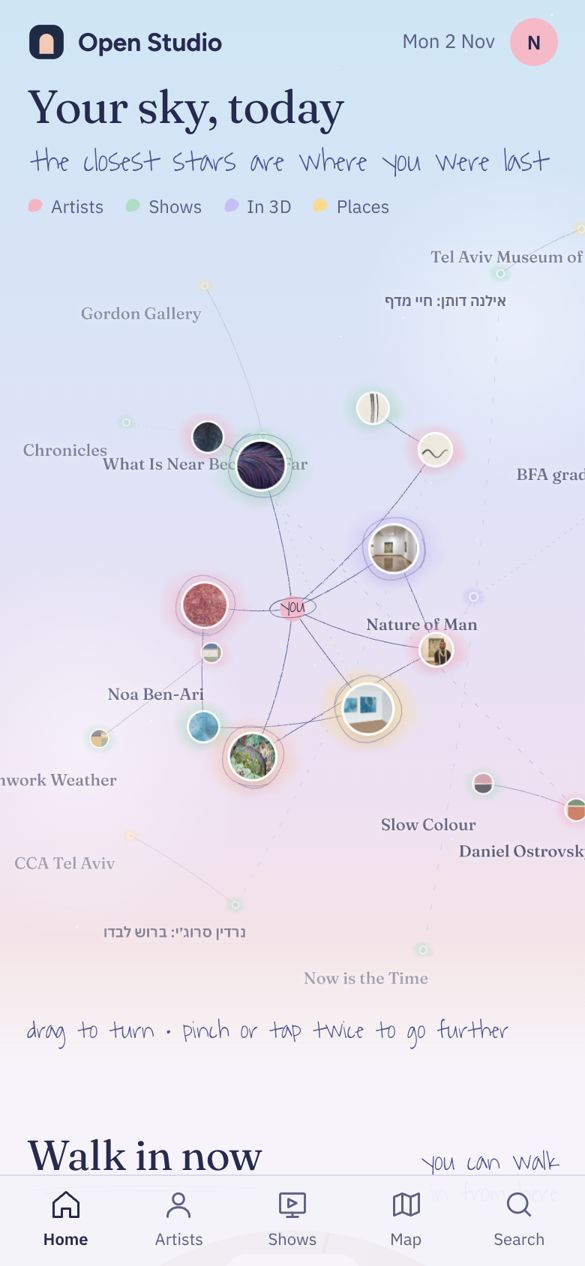
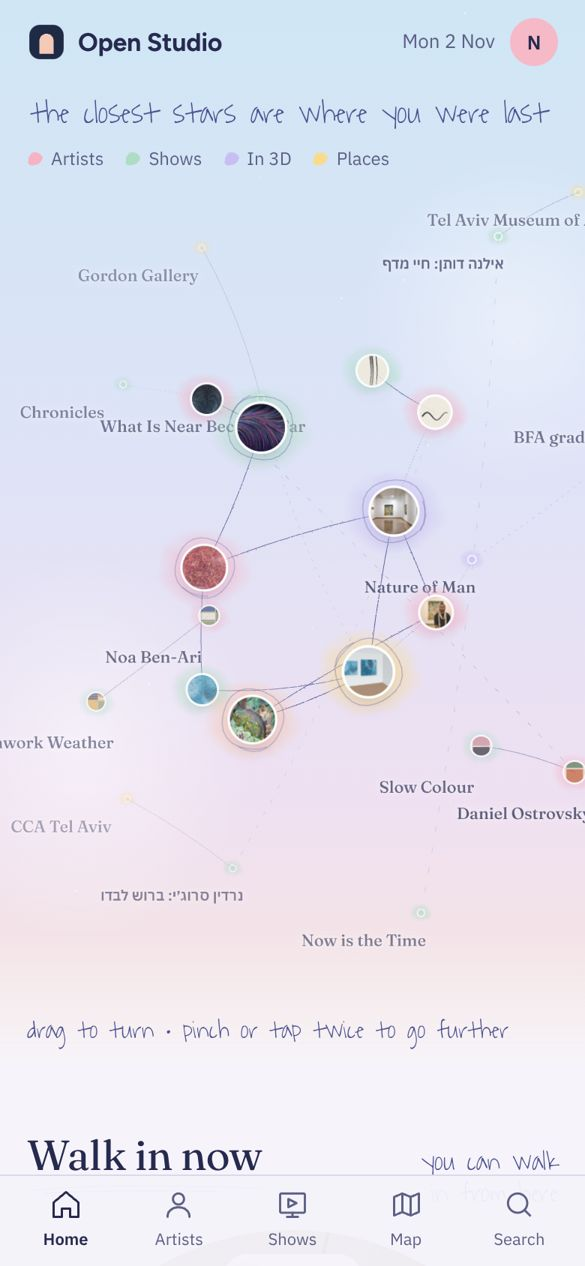
Open Studio lab: Daylight, by hand, without the title and the 'you'
Claude-Session: https://claude.ai/code/session_017GsJvpJhWTJ6Xso11HKtdL

diff --git a/open-studio-lab/home/day.js b/open-studio-lab/home/day.js
@@ -1,6 +1,6 @@
 // Daylight sky, by hand: the page and the sky's marks, shared by the chosen direction and its variations.
 import { home } from './home.js';
-import { placeAll } from './data.js';
+import { placeAll, STARS, TIES } from './data.js';
 import { rnd } from './sky.js';
 
 const NS = 'http://www.w3.org/2000/svg';
@@ -42,15 +42,20 @@ const sketchArch = tour => {
   wrap.insertAdjacentHTML('beforeend', `<svg class="sketch-arch" viewBox="-9 -9 ${w + 16} ${h + 15}" aria-hidden="true"><path d="${path(-8, -9, 9)}"/><path d="${path(4, -3, 3)}" opacity=".5"/></svg>`);
 };
 
+// without a "you" in the middle: what you used last is drawn as the trail you took, in order
+const TRAIL = [['signal', 'lia', 'used'], ['lia', 'ritual', 'used'], ['ritual', 'harbour', 'used'], ['harbour', 'together', 'used'], ['maya', 'ritual', 'maybe'], ['elad', 'harbour', 'maybe']];
+const SKY_STARS = STARS.filter(s => s.kind !== 'you'), SKY_TIES = [...TRAIL, ...TIES.filter(t => !t.includes('you'))];
+
 export function day(v = {}) {
   hourSky(v.skies);
   home({
     tourShape: v.tourShape || 'arch', wander: false,
-    copy: { title: 'Your sky, today', hand: 'the closest stars are where you were last', hint: 'drag to turn · pinch or tap twice to go further', live: 'Walk in now', end: 'that’s your sky for today', ...v.copy },
+    copy: { title: '', hand: 'the closest stars are where you were last', hint: 'drag to turn · pinch or tap twice to go further', live: 'Walk in now', end: 'that’s your sky for today', ...v.copy },
     legend: v.legend === false ? null : [['artist', 'Artists'], ['show', 'Shows'], ['tour', 'In 3D'], ['place', 'Places']],
     sky: {
-      cam: { D: 560, pitch: 0 }, F: 560, cy: 0.57, limits: { yaw: 0.8, pitch: 0.45, Dmin: 300, Dmax: 1500 }, intro: 1.9, zoomEase: .05, farZoom: 1.9,
+      cam: { D: 560, pitch: 0 }, F: 560, cy: 0.535, limits: { yaw: 0.8, pitch: 0.45, Dmin: 300, Dmax: 1500 }, intro: 1.9, zoomEase: .05, farZoom: 1.9,
       farFrom: 560, fogStart: 60, fogRange: 1500, minOp: .1, labelAt: 0.7, bigAt: 0.86, maxScale: 1.3, bow: 0.1, ink: .8, pickLift: 90,
+      stars: v.you ? STARS : SKY_STARS, ties: v.you ? TIES : SKY_TIES,
       layout: placeAll, node: v.node || node,
       extra(g, project, cam, t, size) { dust(g, project); if (v.extra) v.extra(g, project, cam, t, size); },
       ...v.sky,

diff --git a/open-studio-lab/home/home.js b/open-studio-lab/home/home.js
@@ -13,7 +13,7 @@ export function home(d) {
   app.innerHTML = `
     <header class="top"><a class="brand" href="./">${LOGO}<span>Open Studio</span></a><span class="day">Mon 2 Nov</span><span class="me" aria-label="Your account">N</span></header>
     <section class="hero" aria-label="Your art world">
-      <div class="hello"><h1>${c.title}</h1>${c.hand ? `<p class="hand">${c.hand}</p>` : ''}
+      <div class="hello">${c.title ? `<h1>${c.title}</h1>` : `<h1 class="vh">Your art world</h1>`}${c.hand ? `<p class="hand">${c.hand}</p>` : ''}
         ${d.legend ? `<ul class="legend" aria-label="What the marks mean">${d.legend.map(([k, t]) => `<li><i class="lg lg-${k}"></i>${t}</li>`).join('')}</ul>` : ''}</div>
       <div id="sky" class="skybox"></div>
       <div class="sky-ui"><span class="hint">${c.hint || 'Drag to turn · pinch to see further'}</span>
@@ -56,12 +56,13 @@ export function home(d) {
   const S = sky(app.querySelector('#sky'), {
     stars: STARS, ties: TIES, ...d.sky,
     onChoose(s) {
+      app.querySelector('.hero').classList.toggle('picking', !!s);
       if (!s) { pick.hidden = true; return; }
       const go = s.kind === 'tour' && s.id === 'ritual' ? `<button type="button" class="go" data-walk>Walk in</button>`
         : s.place ? `<a class="go" href="${APP}?guest#/map/place/${s.place}">On the map</a>` : '';
       pick.innerHTML = `${s.img ? `<img src="${s.img}" alt="">` : `<i class="dot k-${s.kind}"></i>`}<div><span class="k">${KIND[s.kind]}${s.ago ? ` · ${esc(s.ago)}` : ''}</span><b${he(s.name)}>${esc(s.name)}</b><span>${esc(s.sub)}</span>${s.note ? `<span class="hand">${esc(s.note)}</span>` : ''}</div>${go}<button type="button" class="x" aria-label="Close">×</button>`;
       pick.hidden = false;
-      pick.querySelector('.x').onclick = () => { pick.hidden = true; S.clear(); };
+      pick.querySelector('.x').onclick = () => { pick.hidden = true; S.clear(); app.querySelector('.hero').classList.remove('picking'); };
       const w = pick.querySelector('[data-walk]'); if (w) w.onclick = () => enter();
     },
   });

diff --git a/open-studio-lab/home/base.css b/open-studio-lab/home/base.css
@@ -8,6 +8,7 @@ a{color:inherit}
 button{font:inherit;color:inherit}
 :focus-visible{outline:2px solid var(--ink);outline-offset:3px;border-radius:6px}
 #app{max-width:520px;margin:0 auto;overflow-x:clip;padding-bottom:calc(84px + env(safe-area-inset-bottom));position:relative}
+.vh{position:absolute!important;width:1px;height:1px;overflow:hidden;clip:rect(0 0 0 0);white-space:nowrap}
 .hand{font-family:var(--hand);color:var(--hand-ink);font-size:var(--hand-size,20px);line-height:1.15;font-weight:var(--hand-weight,500)}
 
 /* header floats over the sky */
@@ -43,6 +44,8 @@ button{font:inherit;color:inherit}
 .star.dim .lab{opacity:0}
 .skybox.full{position:fixed;inset:0;z-index:60;background:var(--sky)}
 .hero.wandering .hello{opacity:0}
+.hello{transition:opacity .4s ease}
+.hero.picking .hello{opacity:0}
 .sky-ui{position:absolute;z-index:14;left:18px;right:14px;bottom:16px;display:flex;align-items:center;gap:10px}
 .hero.wandering .sky-ui{position:fixed;z-index:62;bottom:calc(18px + env(safe-area-inset-bottom));max-width:488px;margin:0 auto}
 .hint{font-size:13px;color:var(--muted)}

diff --git a/open-studio-lab/home/day-watercolour.html b/open-studio-lab/home/day-watercolour.html
@@ -50,7 +50,7 @@ import { day } from './day.js';
 document.body.insertAdjacentHTML('afterbegin', `<svg width="0" height="0" style="position:absolute" aria-hidden="true"><filter id="bloom" x="-20%" y="-20%" width="140%" height="140%"><feTurbulence type="fractalNoise" baseFrequency="0.012" numOctaves="3" seed="21" result="n"/><feDisplacementMap in="SourceGraphic" in2="n" scale="70"/><feGaussianBlur stdDeviation="2"/></filter></svg>`);
 const BLOOMS = [[-6, 2, 70, 34, '#F9C7B4'], [52, -2, 62, 30, '#C9DDF5'], [8, 34, 58, 30, '#F5B8CB'], [56, 40, 56, 32, '#D2C6F4'], [-4, 66, 64, 30, '#BFE5D0'], [48, 72, 60, 30, '#F8DE95'], [20, 88, 70, 24, '#F5C3D1']];
 day({
-  copy: { title: 'Your sky, today', hand: 'painted from where you were last' },
+  copy: { title: '', hand: 'painted from where you were last' },
   sketchArch: true,
   after(app) {
     const paint = document.createElement('div'); paint.className = 'paint'; paint.setAttribute('aria-hidden', 'true');

diff --git a/open-studio-lab/home/day-graphite.html b/open-studio-lab/home/day-graphite.html
@@ -45,7 +45,7 @@ const heb = s => /[֐-׿]/.test(s) ? ' dir="rtl"' : '';
 const arrow = '<svg viewBox="0 0 18 16" aria-hidden="true"><path d="M15 14C11 12 7 9 4 3M4 3l-1 5M4 3l5 1"/></svg>';
 const seed = s => s.id.length * 7 + s.id.charCodeAt(0);
 day({
-  copy: { title: 'Your sky, today', hand: 'drawn from where you were last' },
+  copy: { title: '', hand: 'drawn from where you were last' },
   node: s => s.kind === 'you' ? you
     : `<span class="hatch"></span><span class="st"${s.img ? ` style="background-image:url(${s.img})"` : ''}></span>${s.ring === 0 ? ring(seed(s)) : ''}<span class="kd"></span><span class="lab"><b${heb(s.name)}>${s.name}</b>${s.sub ? `<small>${s.sub}</small>` : ''}${s.note ? `<span class="hand">${arrow}${s.note}</span>` : ''}</span>`,
   sky: { ink: 1.35 },

diff --git a/open-studio-lab/home/day-paper.html b/open-studio-lab/home/day-paper.html
@@ -59,7 +59,7 @@ const HILLS = `<svg class="hills" viewBox="0 0 390 150" preserveAspectRatio="non
   <path d="M0 122C70 108 120 126 190 116S300 100 390 114V150H0Z" fill="#F6F4FA"/></svg>`;
 const CLOUD = (x, y, w) => `<svg class="cloud" style="left:${x}%;top:${y}%;width:${w}px" viewBox="0 0 120 50" aria-hidden="true"><path d="M8 40C2 30 14 20 26 24 28 10 48 6 58 16 66 4 92 6 94 22 110 18 120 34 108 42Z"/></svg>`;
 day({
-  copy: { title: 'Your sky, today', hand: 'cut out from where you were last' },
+  copy: { title: '', hand: 'cut out from where you were last' },
   sketchArch: false,
   node: s => s.kind === 'you' ? you : `${cut(seed(s))}<span class="st"${s.img ? ` style="background-image:url(${s.img})"` : ''}></span>${label(s)}`,
   sky: { ink: 1.6 },
